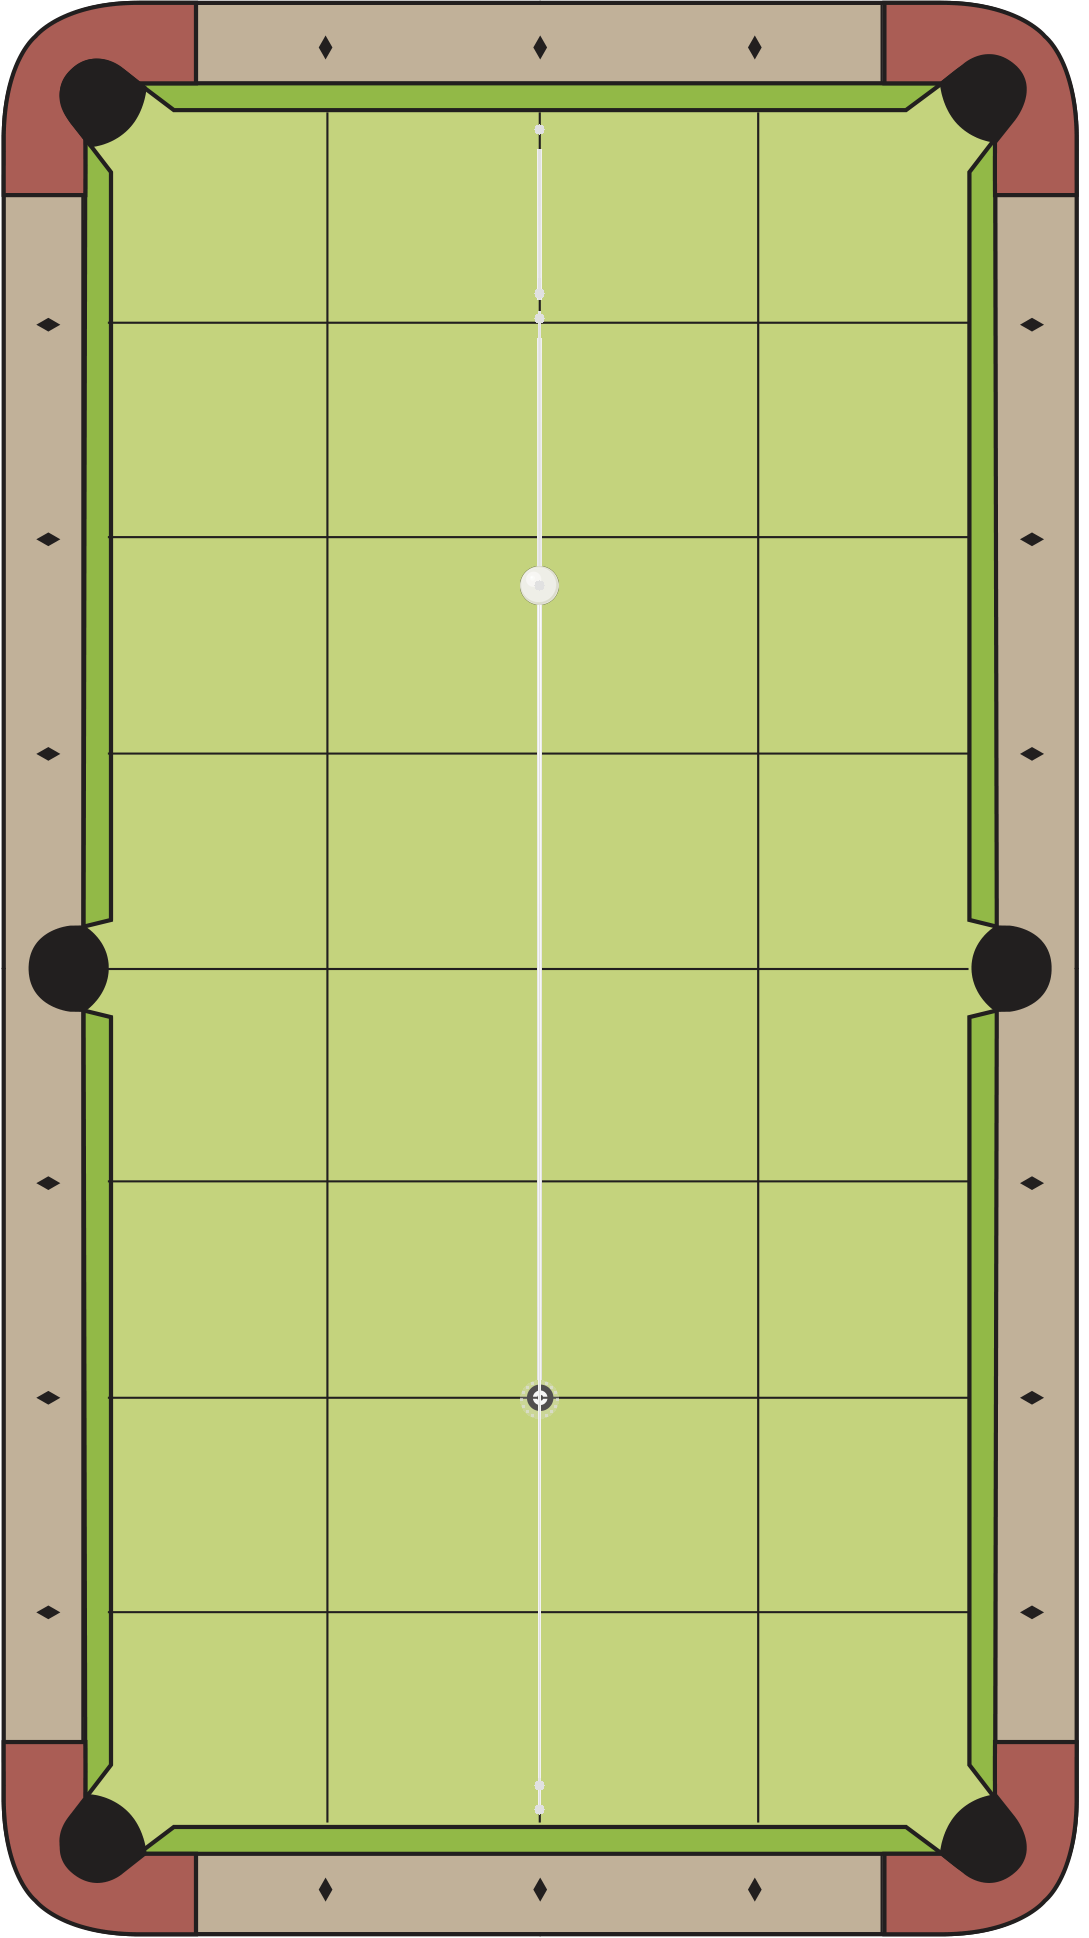
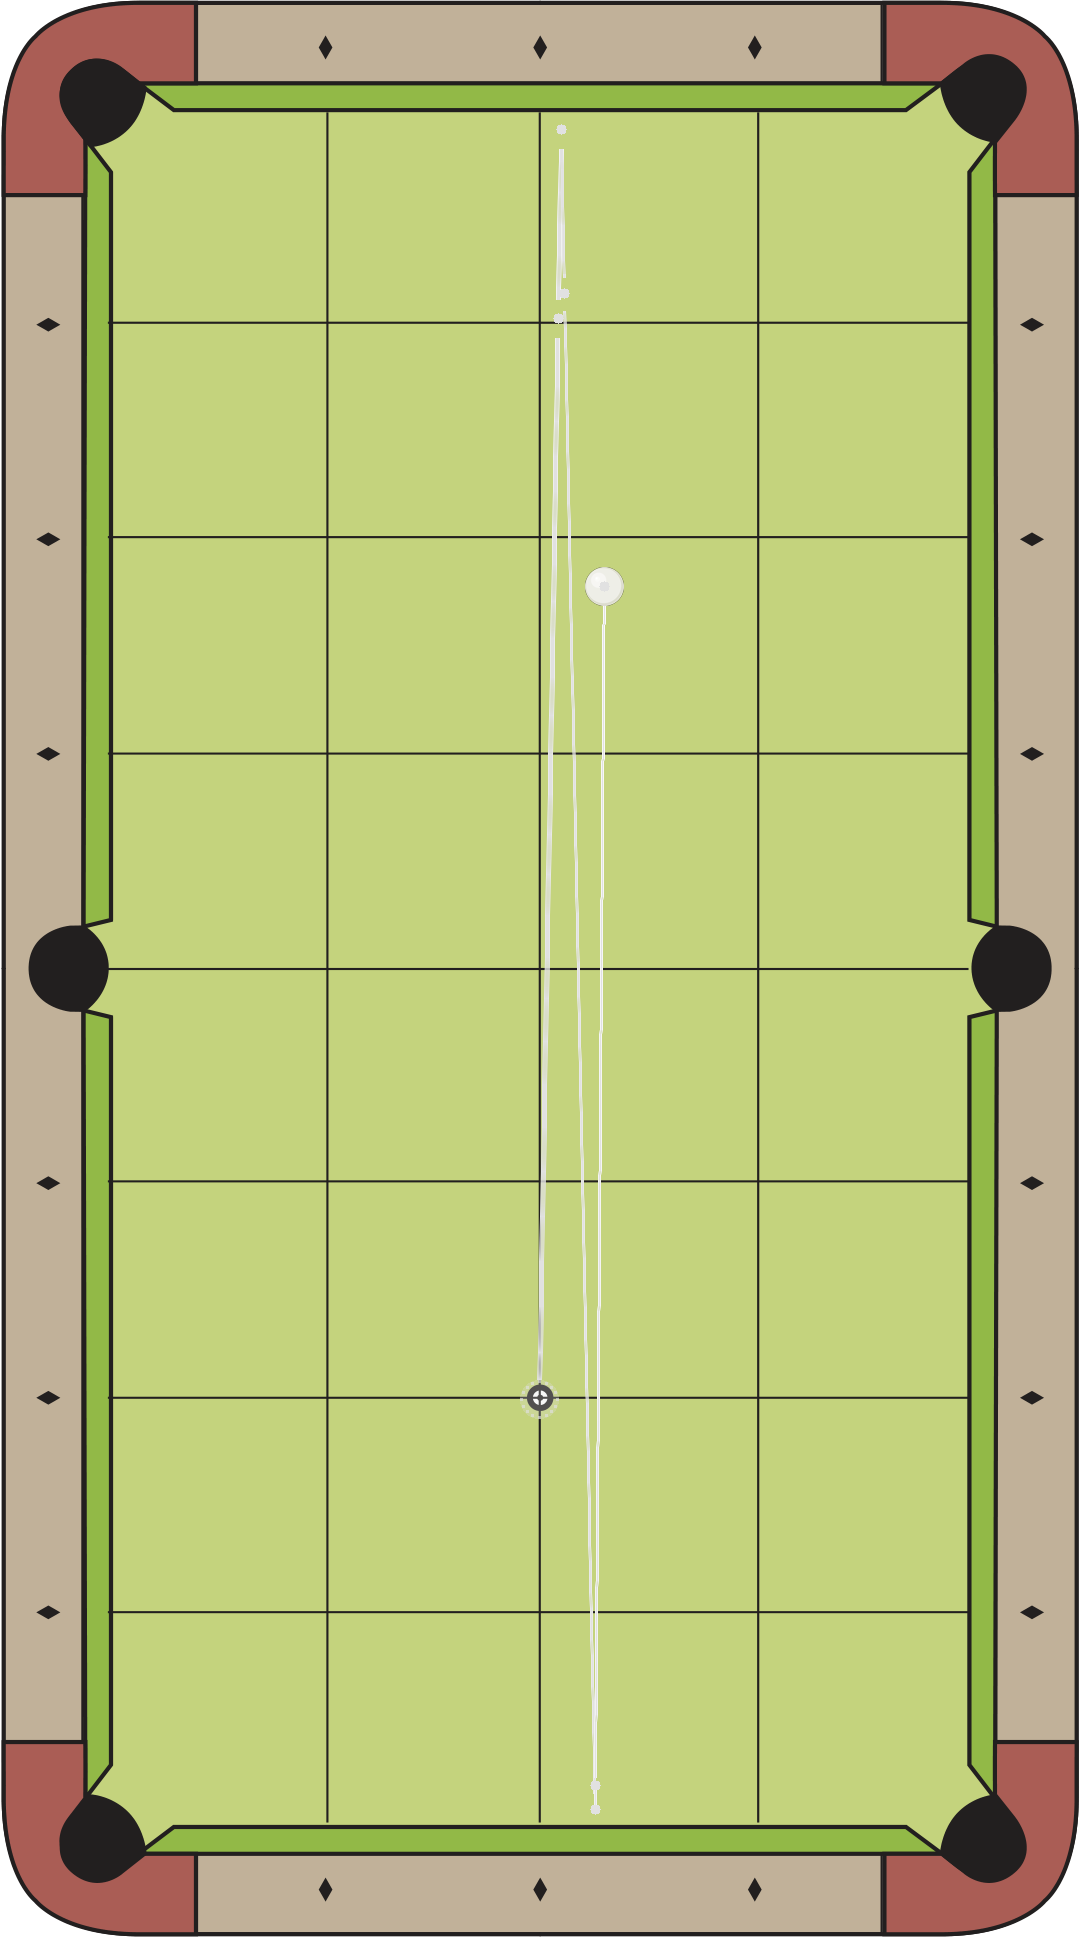
Angle lag shot ladder paths

Changed region(s): [[0.4683, 0.0619, 0.5932, 0.9288], [0.4683, 0.8978, 0.4995, 0.9288]]

diff --git a/examples/scenarios/README.md b/examples/scenarios/README.md
@@ -22,8 +22,9 @@ The CLI will:
 
 The `lag_shot_00_touch.billiards` through `lag_shot_08_exceptional_power_break.billiards`
 examples are cue-only lag shots. The cue starts at `(2.0, 2.0)` — centered left/right on the
-second diamond from the bottom — and is hit squarely toward the top rail with `heading(0deg)`.
-They cover the built-in Dr. Dave speed aliases from softest to hardest:
+second diamond from the bottom — and is hit with a very slight angle toward the right side of the
+top rail via `heading(1deg)`, so overlapping rebounds are easier to inspect. They cover the built-in
+Dr. Dave speed aliases from softest to hardest:
 
 - `lag_shot_00_touch.billiards`
 - `lag_shot_01_slow.billiards`
